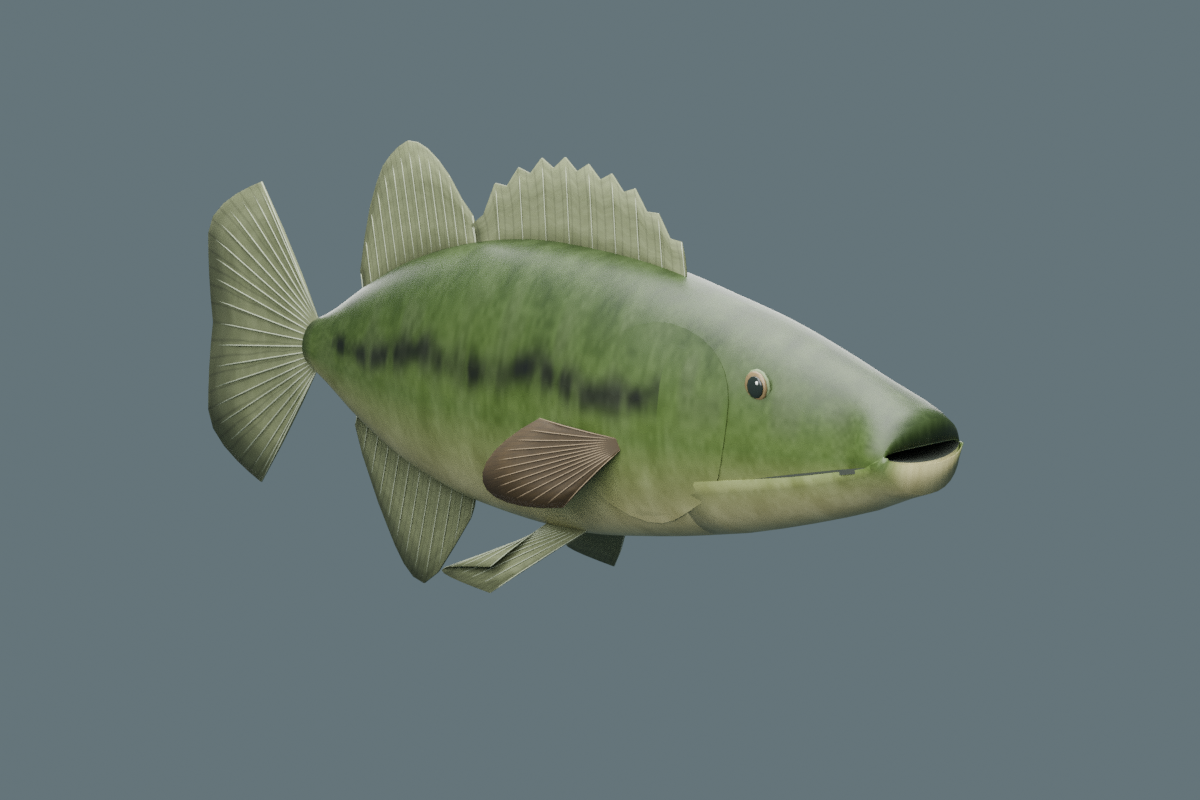
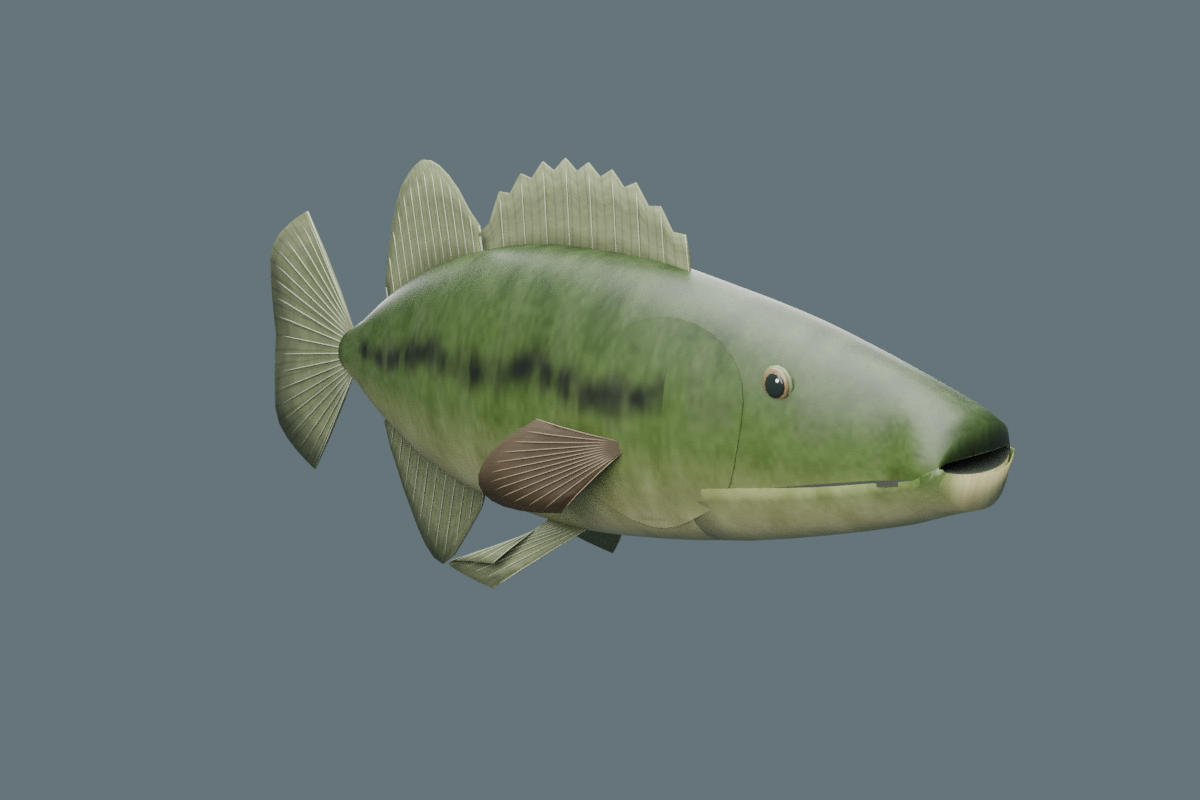
C1: reconcile game design and refresh perspective review evidence

diff --git a/tools/blender/generate_bass.py b/tools/blender/generate_bass.py
@@ -637,7 +637,7 @@ stats['mesh_validation']={ob.name:topology_metrics(ob) for ob in FISH}
 if stats['mesh_validation'][body.name]['boundary_edges'] or stats['mesh_validation'][body.name]['nonmanifold_edges']:
     raise RuntimeError('Body must be a closed manifold including the recessed mouth cavity')
 
-# Six orthographic studio views on a neutral blue-gray background. Camera
+# Five orthographic views and a perspective three-quarter studio view. Camera
 # placement names describe the face of the fish visible in Blender coordinates.
 world=bpy.context.scene.world
 world.color=(.14,.19,.20)
@@ -672,6 +672,8 @@ for view,position in views.items():
     if A.render_view and view!=A.render_view:
         continue
     cam.location=position
+    cam_data.type='PERSP' if view=='front_three_quarter' else 'ORTHO'
+    cam_data.lens=60
     cam.rotation_euler=(Vector((0,0,0))-cam.location).to_track_quat('-Z','Y').to_euler()
     if view in ('front','rear'):
         cam_data.ortho_scale=.38
@@ -687,6 +689,7 @@ for view,position in views.items():
         bpy.ops.render.render(write_still=True)
         stats['render_files'].append(path.name)
 cam.location=views['front_three_quarter']
+cam_data.type='PERSP'
 cam.rotation_euler=(Vector((0,0,0))-cam.location).to_track_quat('-Z','Y').to_euler()
 cam_data.ortho_scale=.54
 bpy.context.scene.render.filepath=str(OUT/'front_three_quarter.png')

diff --git a/docs/C1_MODELING.md b/docs/C1_MODELING.md
@@ -4,7 +4,7 @@ Status: modeling candidate awaiting user visual approval. No C2 rig, weights, sw
 
 ## Scope and source of truth
 
-Base: `main` at `0ce0fc6143ea0b4827acd3d341f862a4c2e5090b`. Development branch: `dev/c1-largemouth-bass`. C0 application, simulation and smoke fixture are preserved. The user's C1 request explicitly moves animation development to C2; this supersedes the earlier roadmap wording.
+Initial base: `main` at `0ce0fc6143ea0b4827acd3d341f862a4c2e5090b`. The concurrent game-design document from `95f63b0` is incorporated and its mixed-camera evidence requirement is honored. Development branch: `dev/c1-largemouth-bass`. C0 application, simulation and smoke fixture are preserved. The user's C1 request explicitly moves animation development to C2; this supersedes the earlier roadmap wording.
 
 The deterministic Blender 4.3.2 Python generator is the authoring source. Generated `.blend`, GLB, textures and machine reports live under ignored `artifacts/c1/`. The six PNG reference views under `docs/evidence/c1/` are review evidence, not a substitute for the actual model. Photographic/anatomical sources and their limitations are recorded in [C1 references](C1_REFERENCES.md).
 
@@ -29,7 +29,7 @@ npm run test:bass --prefix tools/blender
 
 Run from the repository root. The generator checks Blender 4.3.2 and uses seed `1947` by default. Parameters and generated geometry/textures are reproducible; Blender file metadata is not promised byte-for-byte identical across reruns. Use the report's SHA-256 hashes to identify a specific reviewed `.blend`/GLB pair.
 
-The six views use orthographic cameras, with left/right/front/rear/top aligned to the source axes and a front three-quarter view for volume. A studio light setup is for inspection, not baked gameplay lighting. The GLB must export selected asset meshes only, with no studio cameras or lights. Render and inspect all six after any geometry, material or export change; diagnostic single-view runs are not complete approval evidence.
+Five views use orthographic cameras aligned to the source axes; the front three-quarter view uses a 60 mm perspective camera for volume. A studio light setup is for inspection, not baked gameplay lighting. The GLB must export selected asset meshes only, with no studio cameras or lights. Render and inspect all six after any geometry, material or export change; diagnostic single-view runs are not complete approval evidence.
 
 The isolated viewer at `tools/blender/viewer.html` is test tooling. The automated runner starts its own localhost server, uses the pinned Three.js loader and cloud Chromium, records a screenshot and metrics, and closes the server/browser. The shader maps must survive export and decode in the browser; checking the presence of source textures alone is insufficient.
 
@@ -58,7 +58,7 @@ The generator's `nonmanifold_edges` statistic includes ordinary boundary edges o
 
 Astra's final recommendation is **request changes for production realism**. The remaining jaw transition, fin treatment and skin/head appearance are documented in [the final review](C1_REVIEW.md). Technical validation passes; C1 is not visually accepted, and production-quality realism is not claimed as achieved. These are the six frozen views for the user's approval or requested revision.
 
-Anatomical left is +Y and right is −Y in authoring coordinates. The front three-quarter view is from +X/−Y/+Z. The profile/front/rear/top cameras are orthographic and aligned to their respective axes.
+Anatomical left is +Y and right is −Y in authoring coordinates. The front three-quarter perspective view is from +X/−Y/+Z. The profile/front/rear/top cameras are orthographic and aligned to their respective axes.
 
 | Left profile | Right profile |
 | --- | --- |

diff --git a/docs/C1_TEST_EVIDENCE.md b/docs/C1_TEST_EVIDENCE.md
@@ -9,7 +9,7 @@ Executed in `/workspace/fish.io`, cloud Debian environment, 2026-10-12 UTC. Blen
 | `npm test` | 6 C0 unit tests pass |
 | `npm run test:e2e` | 2 C0 browser tests pass, including context recovery |
 | `npm run smoke --prefix tools/blender` | C0 animated non-fish fixture exports and validates with 0 errors/warnings; corrupt GLB rejected |
-| `blender -b --python tools/blender/generate_bass.py` | Final seed-1947 Blender source, GLB and all six 1200 × 800 / 64-sample Cycles renders produced |
+| `blender --background --python-exit-code 1 --python tools/blender/generate_bass.py -- --output-dir artifacts/c1` | Final seed-1947 Blender source, GLB and all six 1200 × 800 / 64-sample Cycles renders produced |
 | `npm run test:bass --prefix tools/blender` | Final C1 export, browser and independent authored-geometry checks pass |
 | Khronos GLB validator | 0 errors, 0 warnings, 18 informational messages |
 | Actual Three.js load | 11 draws, 10,976 triangles; no clips/skins; five embedded images decoded; body color/normal/roughness PBR slots present |
@@ -18,10 +18,12 @@ Executed in `/workspace/fish.io`, cloud Debian environment, 2026-10-12 UTC. Blen
 | Negative cases | Corrupt GLB rejected by validator and loader; empty geometry, unexpected clips/skins, missing fin, loose vertex and inconsistent winding rejected |
 | Final visual review | All six views and exported-model browser screenshot inspected by root/modeler/Astra; Astra recommends changes for production realism, not acceptance |
 
[1 lines of base64/hex data omitted]
+The final camera-only reconciliation with the concurrent game-design document regenerated all six views (five orthographic; front three-quarter perspective at 60 mm), then the full C1 suite passed again. Geometry costs remain unchanged.
 
[2 lines of base64/hex data omitted]
 
-Machine reports and render hashes are retained in [evidence/c1](evidence/c1/manifest.json); source statistics and independent validation use different boundary/nonmanifold terminology explained in [modeling notes](C1_MODELING.md). The production generator command should include `--python-exit-code 1` (the npm wrapper does); the successful final render run above also produced a complete report/artifact set checked independently.
[1 lines of base64/hex data omitted]
+
+Machine reports and render hashes are retained in [evidence/c1](evidence/c1/manifest.json); source statistics and independent validation use different boundary/nonmanifold terminology explained in [modeling notes](C1_MODELING.md).
 
 No physical iPhone, Safari, skinning, jaw-opening deformation, animation loop or thermal/memory endurance tests occurred. Automated validation does not prove biological accuracy, every self-intersection, realistic appearance, or achieved device budgets. The retained PNGs are evidence for one frozen candidate; generated Blender/GLB/texture binaries remain ignored and are reproducible from source. Existing GitHub CI continues to check C0; Blender/C1 asset checks ran in this cloud and are not provisioned in CI. C2 and merge remain gated on the user.

diff --git a/docs/C1_REVIEW.md b/docs/C1_REVIEW.md
@@ -2,21 +2,21 @@
 
 **Recommendation: REQUEST CHANGES against the requested production-quality realism standard.** This is a technically valid, reviewable modeling candidate, not a visually accepted production asset. User approval is pending. C1 remains open; C2, merging, and release are not authorized by this review.
 
-This review supersedes the preliminary 04:49 review. It covers the final coherent six-view set generated on 2026-10-12 around 04:58 UTC and the refreshed 04:59 Three.js evidence. Previously reported floating mouth rails, stacked protruding eye layers, and the multi-lobed angular tail were corrected and are not current findings.
+This review supersedes the preliminary 04:49 review. It covers the final coherent six-view set generated on 2026-10-12 around 05:07 UTC and the refreshed Three.js validation evidence. Previously reported floating mouth rails, stacked protruding eye layers, and the multi-lobed angular tail were corrected and are not current findings.
 
 ## Reviewed artifacts
 
 All six 1200 × 800, 64-sample Blender renders were inspected individually: [left](evidence/c1/left.png), [right](evidence/c1/right.png), [front](evidence/c1/front.png), [rear](evidence/c1/rear.png), [top](evidence/c1/top.png), and [front three-quarter](evidence/c1/front_three_quarter.png). The current [Three.js screenshot](evidence/c1/largemouth-bass-browser.png), generator, geometry report, and browser validation report were also inspected.
 
-The five principal cameras are orthographic and aligned to their named axes; the sixth is an elevated front three-quarter view. Anatomical left is viewed from +Y and right from -Y, with the nose +X and dorsal direction +Z in Blender. All views frame the complete fish.
+The five principal cameras are orthographic and aligned to their named axes; the sixth is an elevated front three-quarter perspective view using a 60 mm lens, satisfying the mixed orthographic/perspective evidence requirement in [GAME_DESIGN.md](GAME_DESIGN.md). Anatomical left is viewed from +Y and right from -Y, with the nose +X and dorsal direction +Z in Blender. All views frame the complete fish.
 
 The reviewed GLB is `artifacts/c1/largemouth-bass.glb`, SHA-256:
 
[2 lines of base64/hex data omitted]
 
 The reviewed Blender source is `artifacts/c1/largemouth-bass.blend`, SHA-256:
 
[2 lines of base64/hex data omitted]
 
 Hashes were checked against the actual files and agree with `artifacts/c1/browser-validation.json`. The final source contains 24 anatomical mesh objects. Export joins a temporary copy into one mesh with material primitives, preserving the separate authoring parts.
 

diff --git a/docs/ARCHITECTURE.md b/docs/ARCHITECTURE.md
@@ -33,4 +33,9 @@ Provisional C1 budgets: 60 fps target on selected physical iPhone, 30 fps fallba
 
 ## Reproducibility
 
-Exact direct dependency pins and committed npm lockfiles; `npm ci` in CI. Node/npm are explicitly recorded. Blender version and Debian package are recorded separately; the fixture fails on a different Blender version. No generated binary assets or dependencies enter Git. CI validates build, simulation and browser behavior; Blender is a documented cloud check, not provisioned in GitHub CI. No deployment is configured in C0.
+Exact direct dependency pins and committed npm lockfiles; `npm ci` in CI. Node/npm are explicitly recorded. Blender version and Debian package are recorded separately; the fixture fails on a different Blender version. Generated Blender/GLB asset binaries and dependencies remain ignored; C1 retains review PNGs and reports as documented below. CI validates build, simulation and browser behavior; Blender is a documented cloud check, not provisioned in GitHub CI. No deployment is configured in C0.
+
+
+## C1 tooling addition
+
+The C0 application boundaries are preserved. `tools/blender/generate_bass.py` authors a candidate with separate anatomical parts and exports a joined mesh with material primitives. The isolated viewer and asset tests prove loading in Three.js without adding a model to the gameplay scene. Generated Blender/GLB/texture binaries remain ignored; six reference PNGs and the runtime screenshot/reports are retained under `docs/evidence/c1/` as an explicit review-evidence exception. Read [game design](GAME_DESIGN.md), [C1 modeling](C1_MODELING.md) and [independent review](C1_REVIEW.md) for the visual gate and unqualified mobile/deformation limits.

diff --git a/docs/GAME_DESIGN.md b/docs/GAME_DESIGN.md
@@ -1,6 +1,6 @@
 # Fish.io — Game Design Specification
 
-**Status:** Living design specification · **Project:** `timporachin/fish.io` · **Platform:** iPhone-first landscape web game · **Updated:** 2026-10-11
+**Status:** Living design specification · **Project:** `timporachin/fish.io` · **Platform:** iPhone-first landscape web game · **Updated:** 2026-10-12
 
 > This document preserves the Fish.io direction and confirmed design decisions. It is not a claim that every feature is implemented. A feature marked **Proposed** is not an approved gameplay rule. Engineering agents must not silently turn proposals into requirements.
 
@@ -114,6 +114,8 @@ Current repository foundation: Three.js, TypeScript, Vite, deterministic simulat
 | C4 — Release hardening | Accessibility, save reliability, performance, deployment and distribution checks | Release criteria satisfied |
 
 **C1 is already underway.** This design file is documentation, not a request to interrupt or reset C1. Reconcile it with C1 when that work completes; do not overwrite C1 changes.
+
+**2026-10-12 C1 scope reconciliation:** The owner's C1 request authorizes modeling, materials, six-view evidence, geometry/export checks and an isolated Three.js load test. It explicitly holds C2 animation development until visual approval. The current C1 candidate passes technical checks but remains visually unaccepted; see `C1_MODELING.md` and `C1_REVIEW.md`. Animation/rigging comes first in the next authorized phase; the gameplay/control rules above remain open. No C2 work is authorized by this document.
 
 ## 9. Open design decisions (do not invent answers)
 

diff --git a/README.md b/README.md
@@ -19,4 +19,4 @@ npm run smoke
 
 Browser tests use cloud `/usr/bin/chromium` by default. For another installed executable set `CHROMIUM_PATH`; CI installs the Playwright-managed Chromium. Blender smoke requires Blender 4.3.2 (Debian package `4.3.2+dfsg-2` tested). Generated outputs are ignored in `artifacts/`, `dist/`, and test report directories.
 
-See [project state](PROJECT_STATE.md), [architecture](docs/ARCHITECTURE.md), [roadmap](docs/ROADMAP.md), [asset pipeline](docs/BLENDER_PIPELINE.md), [C0 test evidence](docs/TEST_EVIDENCE.md), and [C1 modeling and approval](docs/C1_MODELING.md). C2 requires C1 visual approval and further authorization.
+See [game design](docs/GAME_DESIGN.md), [project state](PROJECT_STATE.md), [architecture](docs/ARCHITECTURE.md), [roadmap](docs/ROADMAP.md), [asset pipeline](docs/BLENDER_PIPELINE.md), [C0 test evidence](docs/TEST_EVIDENCE.md), and [C1 modeling and approval](docs/C1_MODELING.md). C2 requires C1 visual approval and further authorization.

diff --git a/PROJECT_STATE.md b/PROJECT_STATE.md
@@ -14,6 +14,8 @@ Final checks pass: independent Blender geometry validation, pinned Khronos GLB v
 
 **Stop at the C1 visual gate.** The model must not be labeled visually accepted because automated checks pass. Consult the independent review for remaining artistic/anatomical issues; C2 animation work requires the user's approval and further instruction.
 
+Draft [PR #2](https://github.com/timporachin/fish.io/pull/2) targets `main`; it remains a draft and is not merged. Main advanced during C1 to `95f63b0`, adding `docs/GAME_DESIGN.md`; that document is incorporated into this development branch and reconciled with the owner’s modeling-only C1 scope. No gameplay proposals were implemented.
+
 ## C0 delivery history (retained)
 
 
